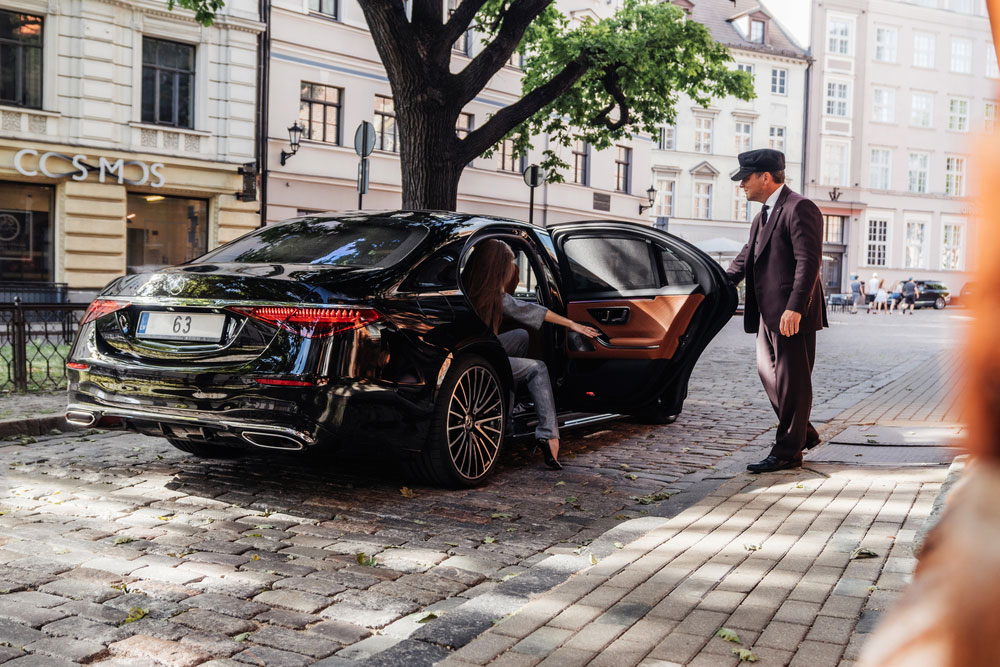
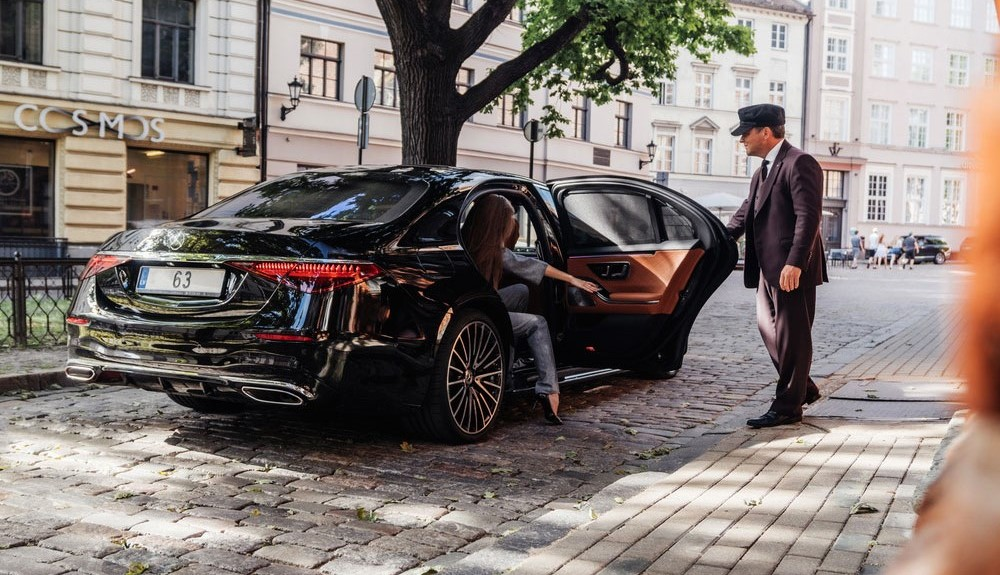
Updated the landing page
Properly resized the image and text as well as added a button to the page

diff --git a/mysite/main/templates/home.html b/mysite/main/templates/home.html
@@ -1,18 +1,37 @@
 {% extends './base.html' %} {% load static %} {% block content %}
+<style>
+  .book-chauffeur:hover {
+    background: #333333;
+    border-color: #333333;
+  }
+</style>
 <div class="container-fluid m-0 p-0">
   <div class="row">
-    <div class="col-5 d-flex align-items-center justify-content-center">
+    <div class="col-6 d-flex align-items-center justify-content-center">
       <div>
-        <h1 style="font-size: 500%">Let Us <br />Drive You</h1>
+        <h1 style="font-size: 500%; font-weight: 550">LET US<br />DRIVE YOU</h1>
+        <h5 style="font-weight: 499">The best chauffeurs, chauffeur.</h5>
+        <p />
+        <a href="/book">
+          <button
+            type="button"
+            class="btn btn-dark mt-4 book-chauffeur rounded-0"
+            style="width: 70%; font-weight: 600"
+          >
+            BOOK A CHAUFFEUR &gt;
+          </button>
+        </a>
       </div>
     </div>
-    <div class="col-7">
+    <div class="col-6 fluid">
       <!-- Render the static image file using the static template tag -->
       <img
         src="{% static 'Limousine-transfer-chauffeur.jpg' %}"
         alt="Limousine Transfer Chauffeur"
+        class="fluid"
       />
     </div>
   </div>
 </div>
+<div></div>
 {% endblock %}
